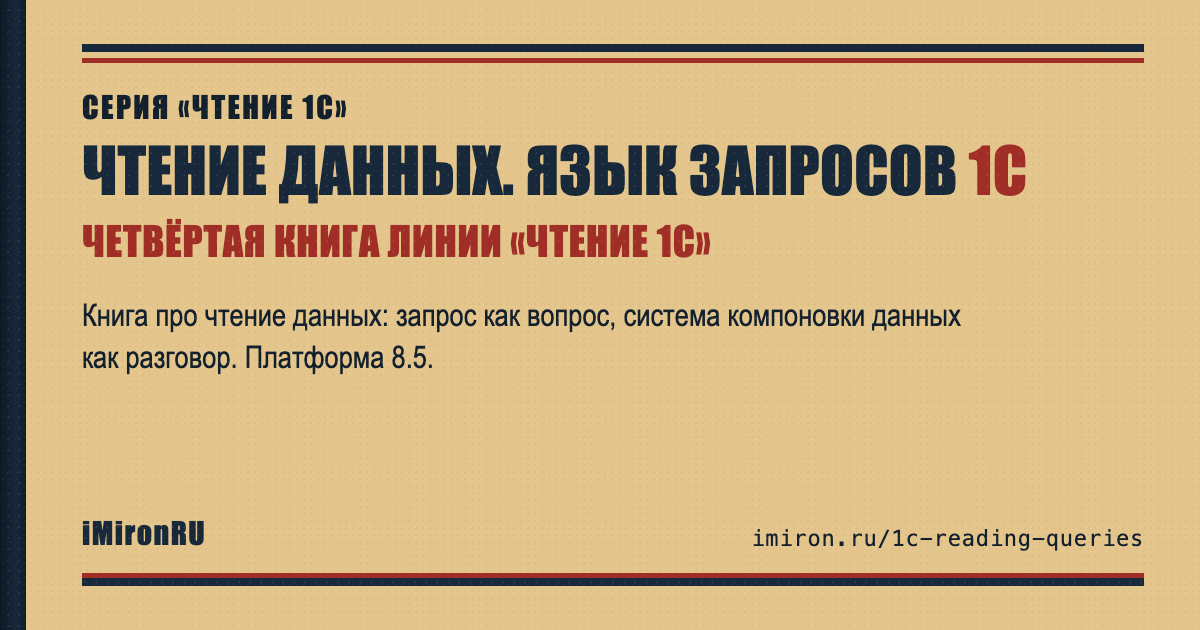
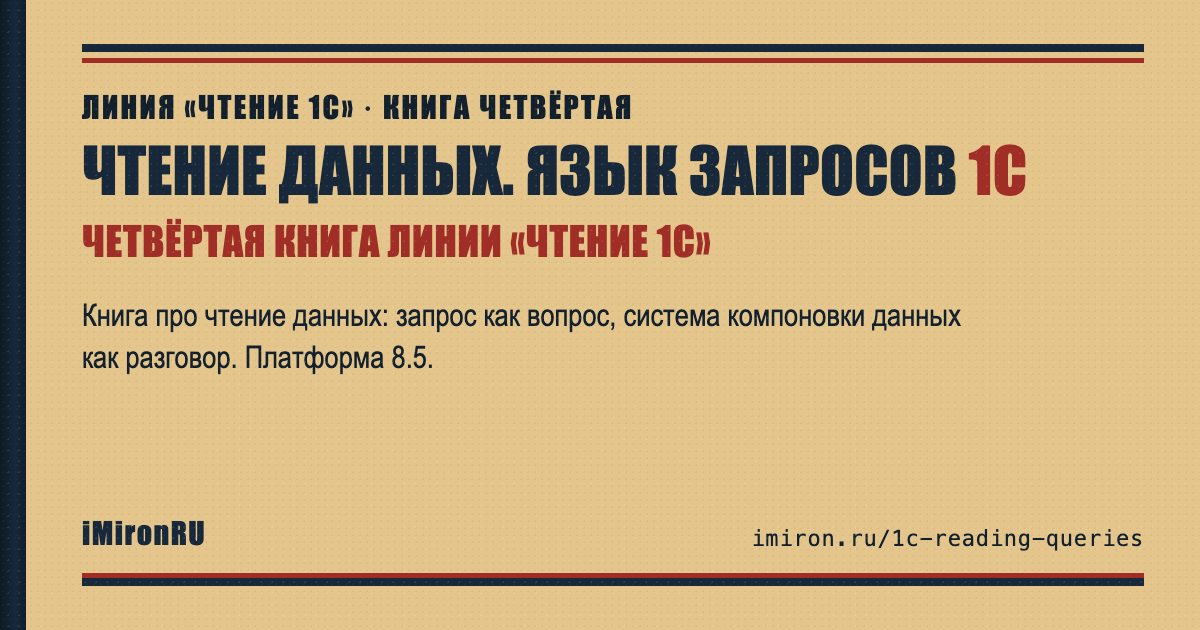
Шаблон v0.6.1: оформление серии, русский поиск, мета-теги, навигация
Книга подтянута с v0.2.1 до текущего шаблона:

- оформление сайта в стиле серии, тёмная тема по умолчанию;
- поиск, понимающий русский: родной поиск mdBook кириллицу отбрасывал
  ещё на сборке и не находил ничего;
- ответы раскрываются под вопросом, тап по тексту закрывает меню;
- оглавление разделов параграфа и кнопка «наверх»;
- мета-теги и карточка ссылки: книга в мессенджере больше не голый адрес;
- вёрстка EPUB и правила канона из версий 0.2.2–0.3.0.

Changed region(s): [[0.0617, 0.1508, 0.5242, 0.2111]]

diff --git a/scripts/og-image.py b/scripts/og-image.py
@@ -11,6 +11,7 @@
 Запуск: python3 scripts/og-image.py [metadata.yaml]
 """
 
+import html
 import os
 import subprocess
 import sys
@@ -88,6 +89,9 @@ def readme_pitch(path="README.md", limit=180):
     if not os.path.exists(path):
         return ""
     text = re.sub(r"(?s)\A---.*?---\n", "", open(path, encoding="utf-8").read())
+    # README, оставшийся от шаблона, рассказывает про шаблон, а не про книгу
+    if re.search(r"^#\s.*book-template", text, flags=re.M):
+        return ""
     for block in text.split("\n\n"):
         # по канону серии строка о книге стоит цитатой сразу под названием
         block = " ".join(re.sub(r"(?m)^>\s?", "", block).split())
@@ -96,7 +100,14 @@ def readme_pitch(path="README.md", limit=180):
             continue
         if "](" in block or "http" in block:
             continue
-        block = re.sub(r"[*_`]", "", block)
+        block = re.sub(r"<[^>]+>", "", block)
+        block = re.sub(r"!\[[^\]]*\]\([^)]*\)", "", block)
+        block = re.sub(r"[*_`]", "", block).strip()
+        # README, который ещё не переписан под книгу, рассказывает о шаблоне
+        if "Шаблон репозитория" in block or "Use this template" in block:
+            continue
+        if len(block) < 60:
+            continue
         if len(block) > limit:
             block = block[:limit].rsplit(" ", 1)[0] + "…"
         return block
@@ -113,15 +124,18 @@ def main():
     author = str(data.get("author") or "")
     author = author.split("(")[0].strip()
     site = str(data.get("site_url") or "").replace("https://", "").rstrip("/")
-    series = str(data.get("series") or "Серия «Чтение 1С»")
+    # Строка серии — только если книга и правда в серии.
+    series = str(data.get("series") or "")
     pitch = str(data.get("pitch") or "") or readme_pitch()
 
     # «1С» в названии — красным, как на обложке
     marked = title.replace("1С", '<span class="mark">1С</span>')
     size = 104 if len(title) <= 18 else (86 if len(title) <= 26 else 62)
 
-    page = PAGE.format(title=marked, subtitle=subtitle, author=author,
-                       site=site, series=series, size=size, pitch=pitch)
+    page = PAGE.format(title=marked, subtitle=html.escape(subtitle),
+                       author=html.escape(author), site=html.escape(site),
+                       series=html.escape(series), size=size,
+                       pitch=html.escape(pitch))
 
     out_dir = os.path.join("assets", "img")
     os.makedirs(out_dir, exist_ok=True)

diff --git a/scripts/search-index.py b/scripts/search-index.py
@@ -202,7 +202,10 @@ class PageReader(HTMLParser):
         if tag in ("h1", "h2") and self._heading == tag:
             if tag == "h1":
                 self.title = " ".join("".join(self._cur["h"]).split())
-                self._cur = None
+                # Текст до первого подзаголовка — это «Открытие» параграфа, а в
+                # некоторых книгах и весь параграф: без него поиск слеп.
+                self._cur = {"h": "", "a": "", "x": []}
+                self.sections.append(self._cur)
             else:
                 self._cur["h"] = " ".join("".join(self._cur["h"]).split())
             self._heading = None
